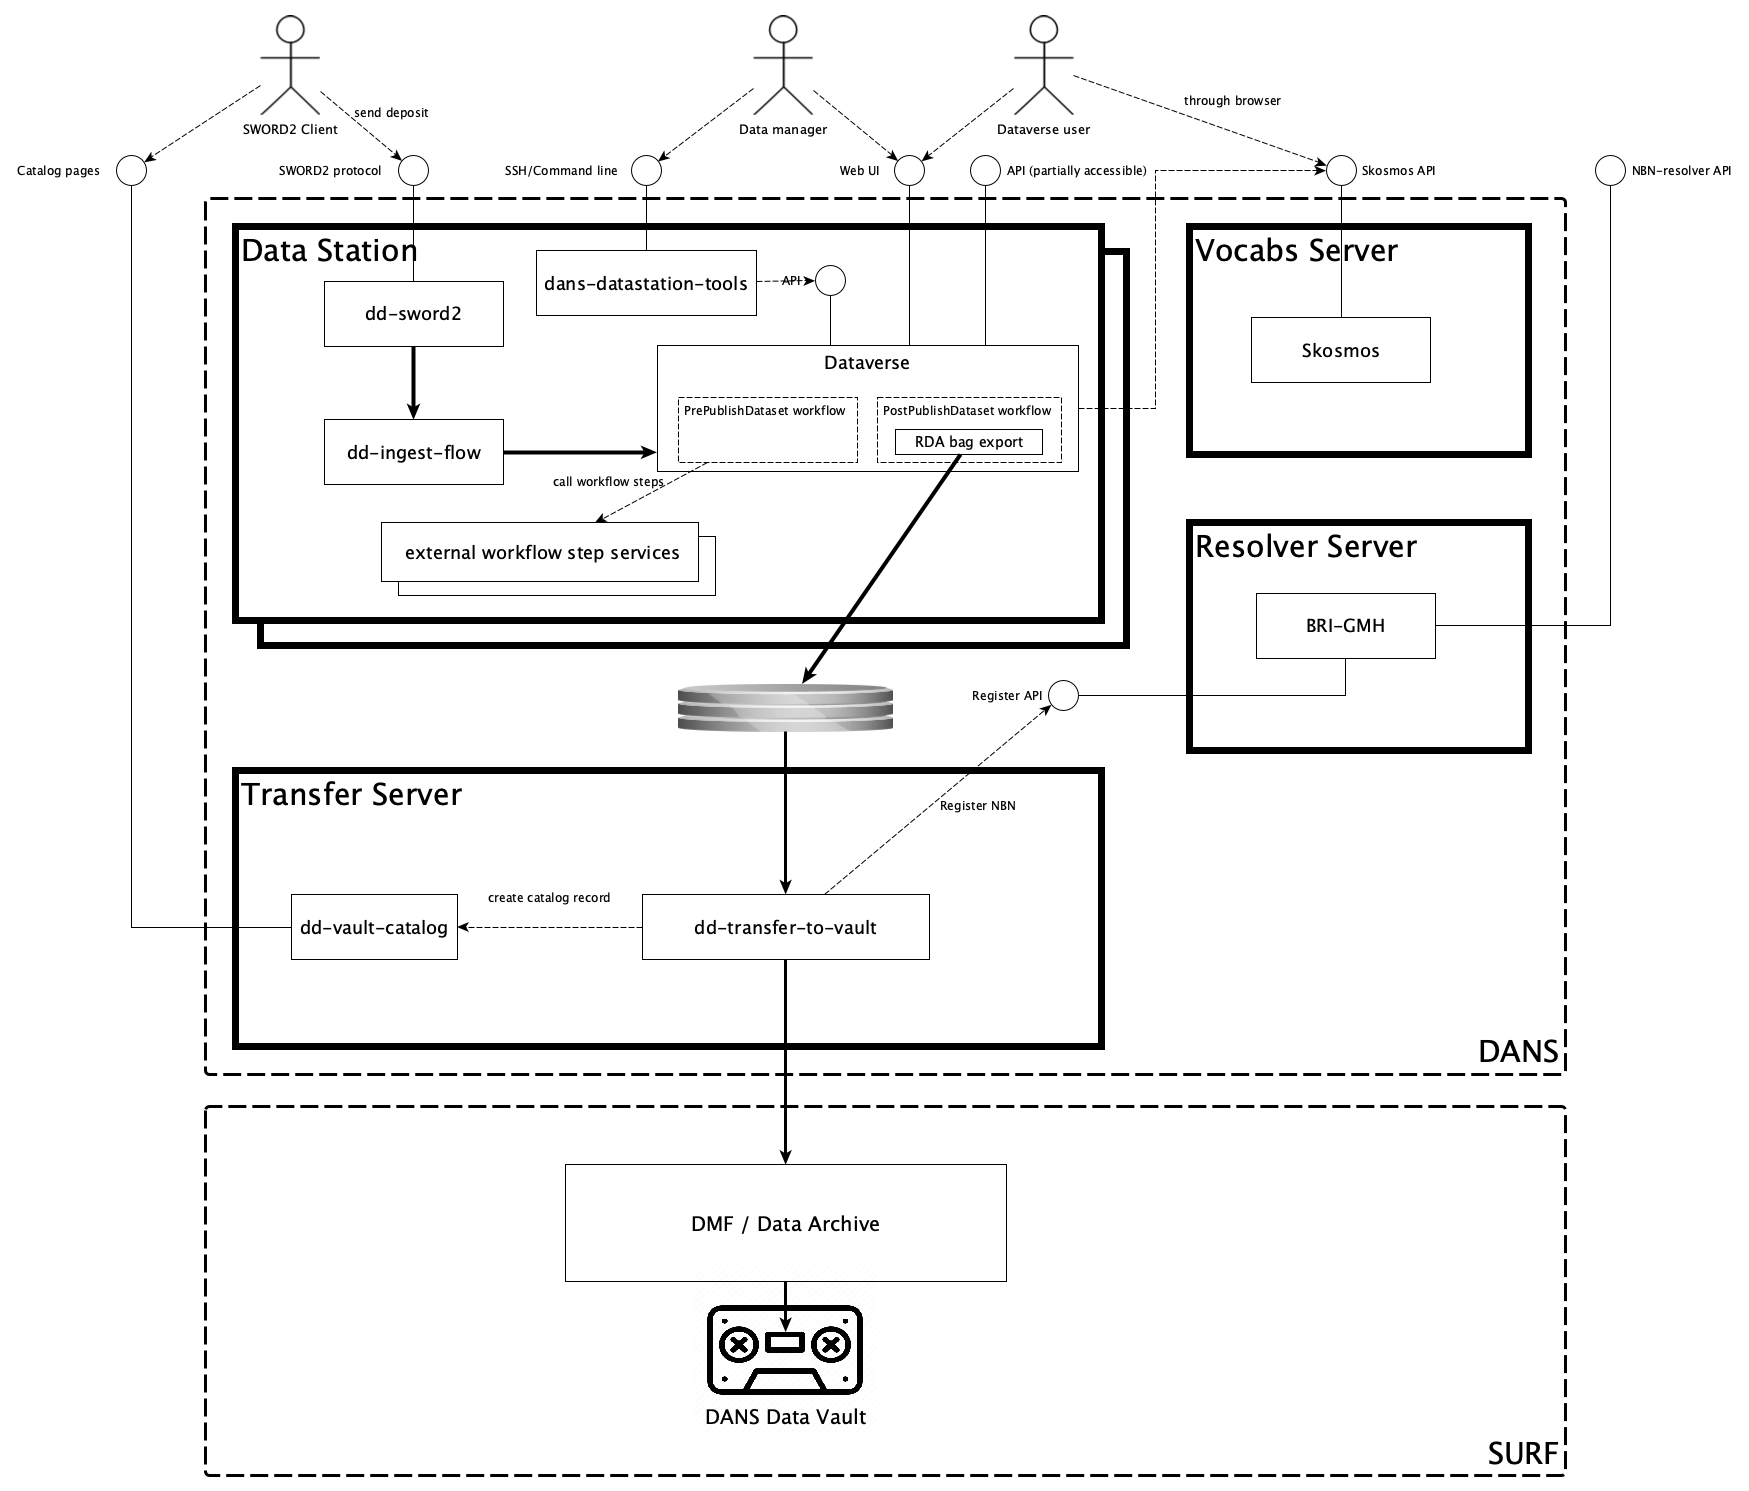
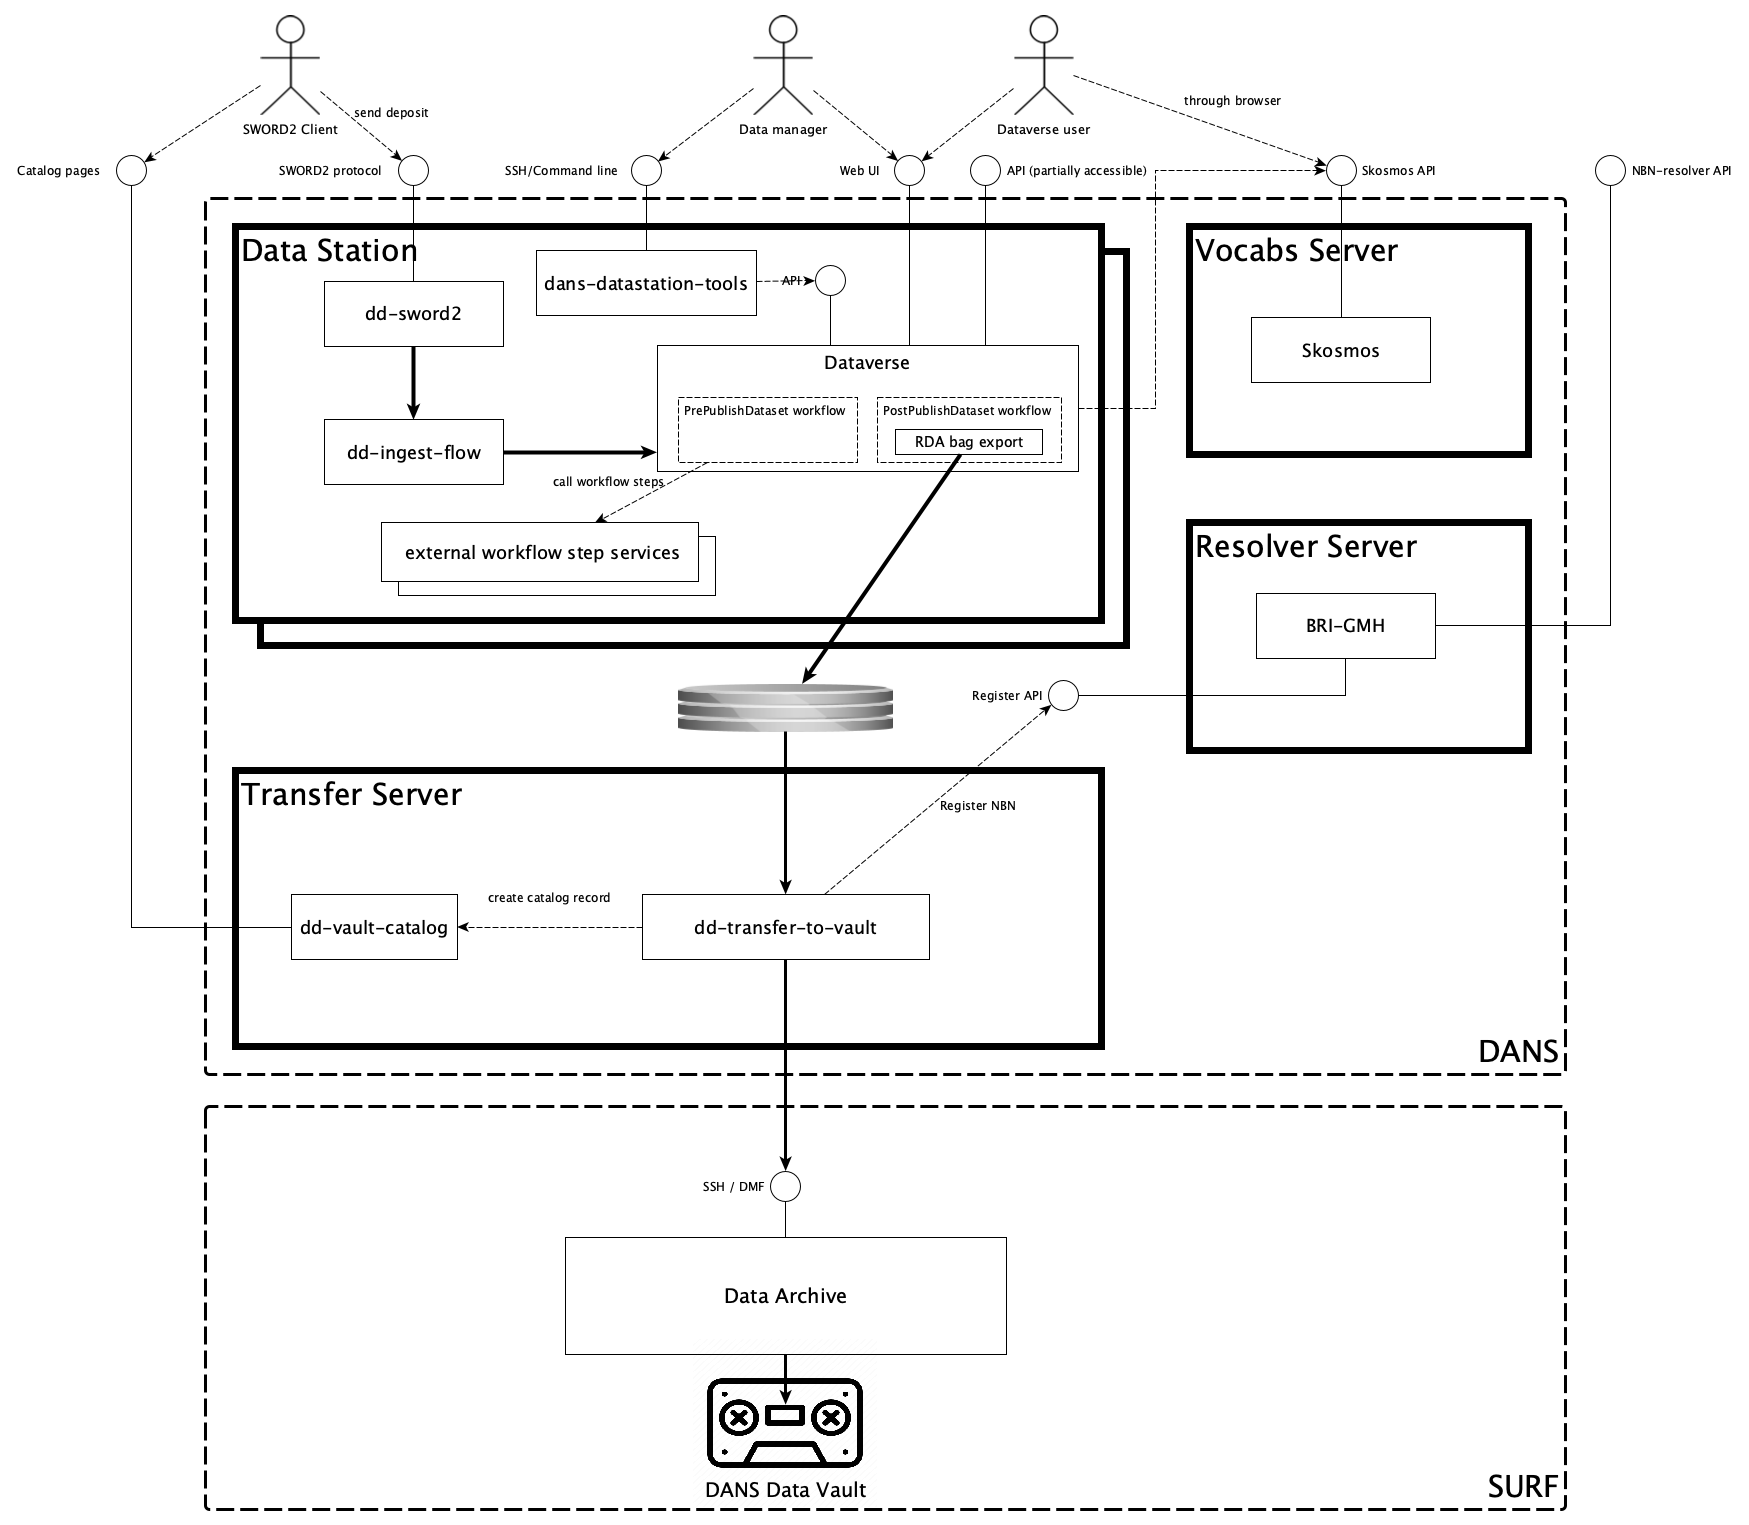
WIP

diff --git a/docs/index.md b/docs/index.md
@@ -88,17 +88,44 @@ A thesaurus service developed by the National Library of Finland. It is used to 
 
 ### dd-transfer-to-vault
 
-Service for preparing Dataset Version Exports for storage in [SURF's Data Archive](#dmf-data-archive). This includes validation, aggregation into larger files
+Service for preparing Dataset Version Exports for storage in the [DANS Data Vault](#dans-data-vault). This includes validation, aggregation into larger files
 and creating a [vault catalog](#dd-vault-catalog) entry for each export.
+
+| Docs                                   | Code                                                                |
+|----------------------------------------|---------------------------------------------------------------------|
+| [dd-transfer-to-vault]{:target=_blank} | <https://github.com/DANS-KNAW/dd-transfer-to-vault>{:target=_blank} |
 
 ### dd-vault-catalog
 
-Service that manages a catalog of all Dataset Version Exports in 
+Service that manages a catalog of all Dataset Version Exports in the [DANS Data Vault](#dans-data-vault). It will expose a summary page for each stored dataset.
+This page will be 
+
+| Docs                               | Code                                                            |
+|------------------------------------|-----------------------------------------------------------------|
+| [dd-vault-catalog]{:target=_blank} | <https://github.com/DANS-KNAW/dd-vault-catalog>{:target=_blank} |
 
 ### BRI-GMH
 
+The NBN resolver service operated by DANS in cooperation with the Koninklijke Bibliotheek. It resolves NBN persistent identifiers to their current location.
+The resolver is hosted at <https://persistent-identifier.nl/>. 
+
+| Docs and code                                           |
+|---------------------------------------------------------|
+| [NBN]{:target=_blank}                                   |
+| <https://github.com/DANS-KNAW/gmh-registration-service> |
+| <https://github.com/DANS-KNAW/gmh-resolver-ui>          |
+| <https://github.com/DANS-KNAW/gmh-meresco>              | 
+
 ### DANS Data Vault
 
+The DANS long-term preservation archive. This is implemented as a collection of files stored on tape via SURF's Data Archive service. The Dataset Version
+Exports are
+wrapped in an [OCFL] repository structure.
+
+| Docs                                |
+|-------------------------------------|
+| [SURF Data Archive]{:target=_blank} |
+| [OCFL]{:target=_blank}              |
 
 [Dataverse]: https://guides.dataverse.org/en/latest/user/index.html
 
@@ -116,7 +143,17 @@ Service that manages a catalog of all Dataset Version Exports in
 
 [dd-workflow-step-vault-metadata]: https://dans-knaw.github.io/dd-workflow-step-vault-metadata
 
+[dd-vault-catalog]:  https://dans-knaw.github.io/dd-vault-catalog
+
+[dd-transfer-to-vault]:  https://dans-knaw.github.io/dd-transfer-to-vault
+
 [Skosmos]: https://www.skosmos.org/
+
+[SURF Data Archive]: https://servicedesk.surf.nl/wiki/display/WIKI/Data+Archive
+
+[OCFL]: https://ocfl.io/
+
+[NBN]: https://www.ifla.org/references/best-practice-for-national-bibliographic-agencies-in-a-digital-age/resource-description-and-standards/identifiers/national-bibliography-number-nbn/
 
 Schema Legend
 -------------

diff --git a/docs/dev.md b/docs/dev.md
@@ -1,0 +1,22 @@
+Development
+===========
+
+DANS micro-services
+-------------------
+The DANS micro-services are based on the [dans-module-archetype]
+
+
+
+Dataverse
+---------
+
+Skosmos
+-------
+
+This documentation site
+-----------------------
+The project you are now looking at is developed as a `mkdocs` project.
+
+
+
+[dans-module-archetype]: https://dans-knaw.github.io/dans-module-archetype/
